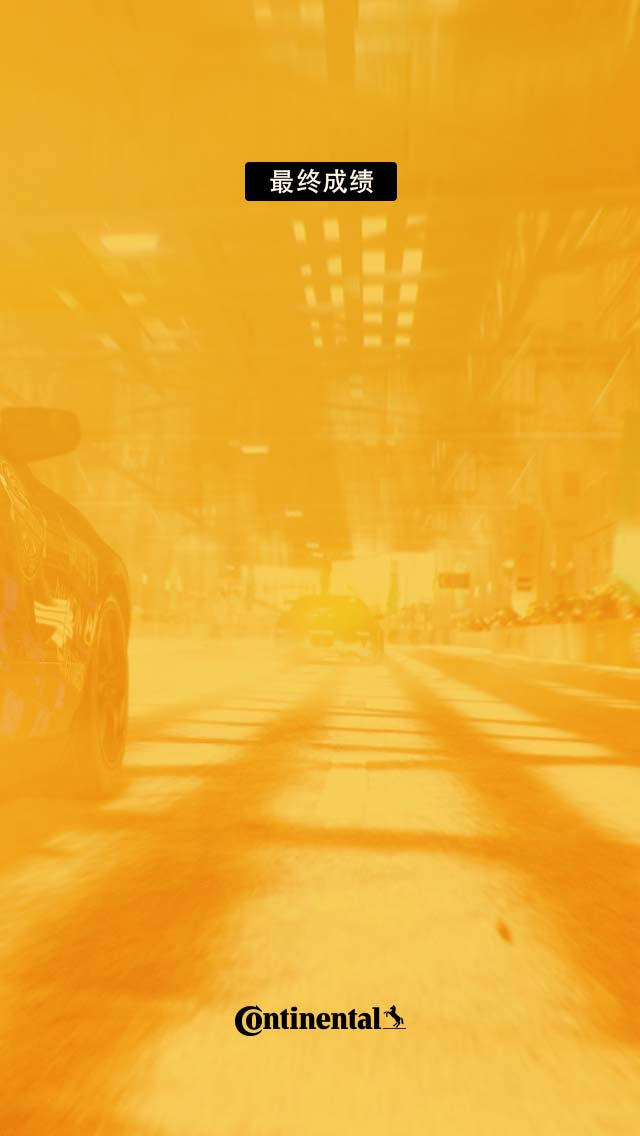
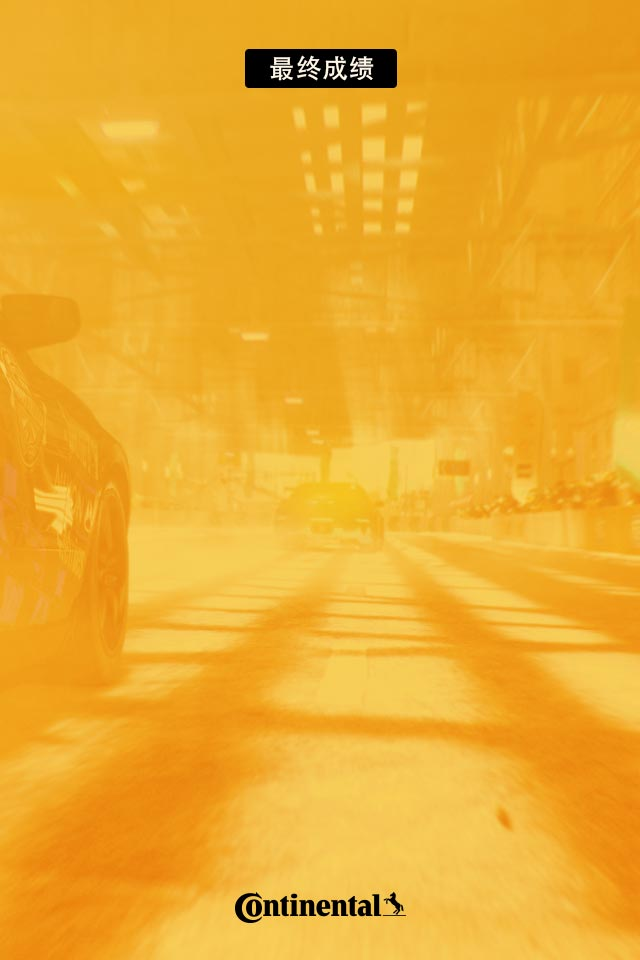
upload image and style

diff --git a/cocos2d/jsloader.js b/cocos2d/jsloader.js
@@ -292,7 +292,7 @@
     var loadJsImg = document.getElementById("cocos2d_loadJsImg");
     if(!loadJsImg){
         loadJsImg = document.createElement('img');
[2 lines of base64/hex data omitted]
 
         var canvasNode = document.getElementById(c.tag);
         // canvasNode.style.backgroundColor = "black";

diff --git a/w3/index.html b/w3/index.html
@@ -64,14 +64,14 @@
             z-index: 100;
             top: 0;
             display: none;
-            line-height: 30px;
+            line-height: 36px;
             font-size: 12px;
         }
         .ranklist {
             width: 320px;
             height: 100%;
             background: url('res/bg_ranking.jpg') no-repeat top center;
-            background-size: 320px 556px;
+            background-size: 320px 480px;
             margin: 0 auto;
             padding-top: 100px;
         }
@@ -119,6 +119,9 @@
         .top21 , .top21 td{
             background-color: #f6d77a;
             border-bottom:none;
+        }
+        .top01 .number , .top11 .number , .top21 .number {
+            color: #1fcb2f;
         }
     </style>
 </head>
